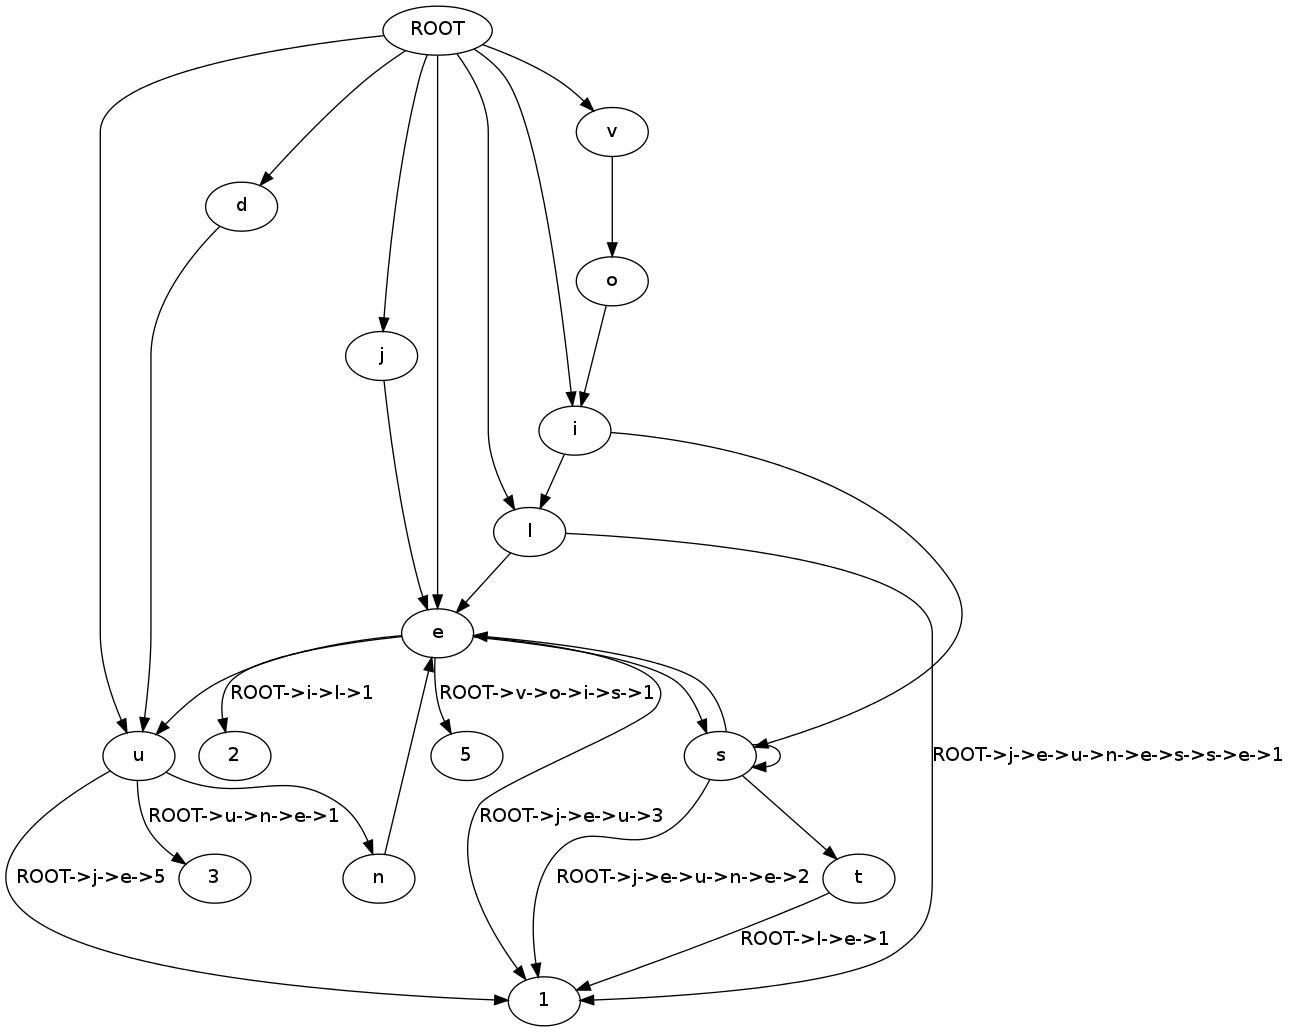
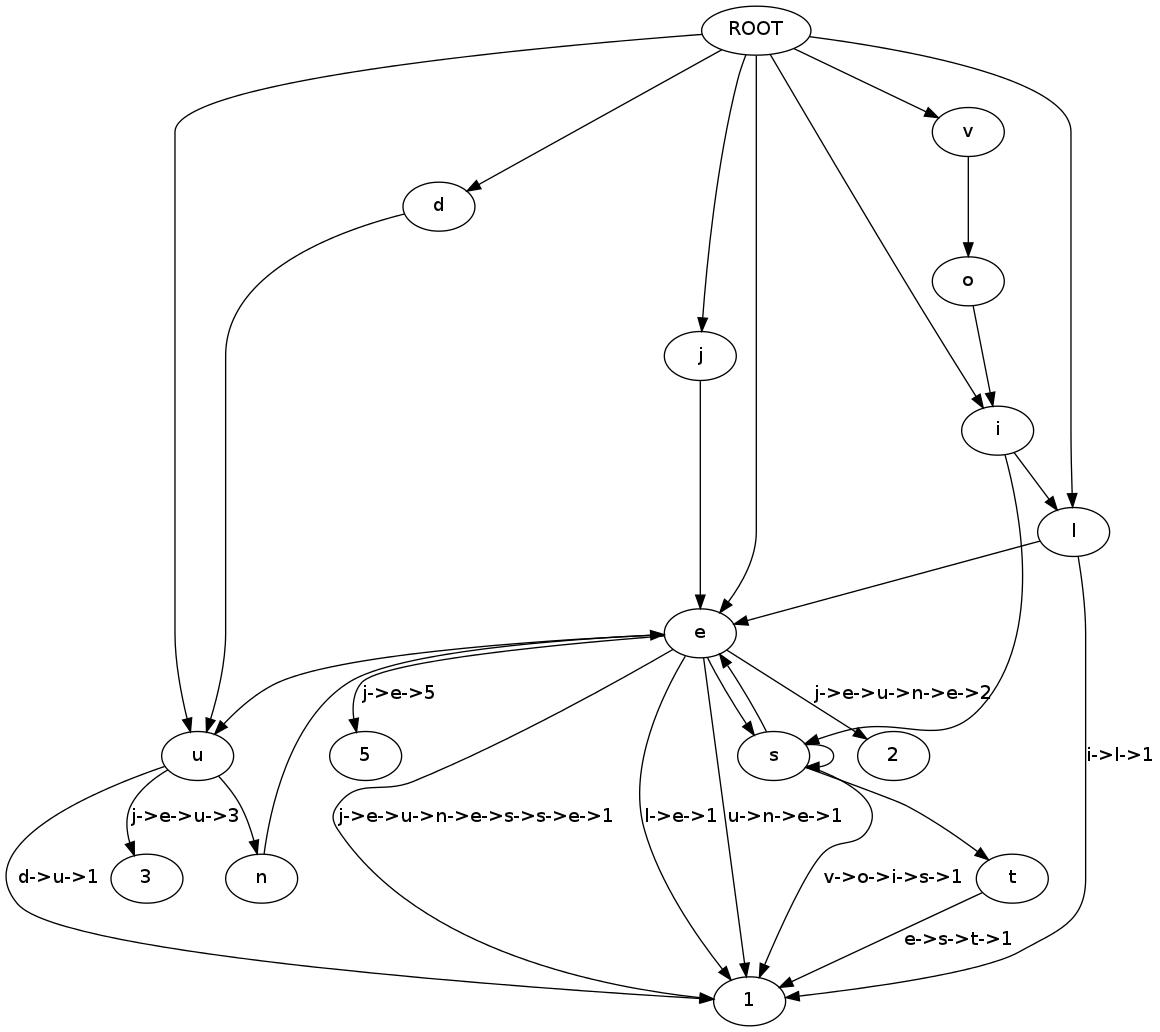
ajout du graph et de son exemple

diff --git a/graph.py b/graph.py
@@ -63,21 +63,19 @@ for pair in text_grapher(t4).as_row_iter():
     path.pop(-2) 
     node = node | set( x for x in flattening(path)  )
     
-    label += [ u"->".join(str(x) for x in path ) ]
+    label += [ u"->".join(str(x) for x in path[1::] ) ]
 
     while len(path) >= 2:
-        if ( path[0:2]) not in edge:
+        if isinstance( path[1], int) or ( path[0:2]) not in edge :
             edge += [ ( path[0:2] ) ]
         path.pop(0)
     
 for n in node:
     graph.add_node( pd.Node( n) )
-#print "%r" % edge
 for e in edge:
-#    print "E %r" % e
     arg = dict()
-#    if isinstance(e[1],int):
-#        arg = dict( label = label.pop(-1))
+    if isinstance(e[1],int):
+        arg = dict( label = label.pop(0))
 
     graph.add_edge( pd.Edge( e[0], e[1], arrowhead="normal", **arg ))
 
